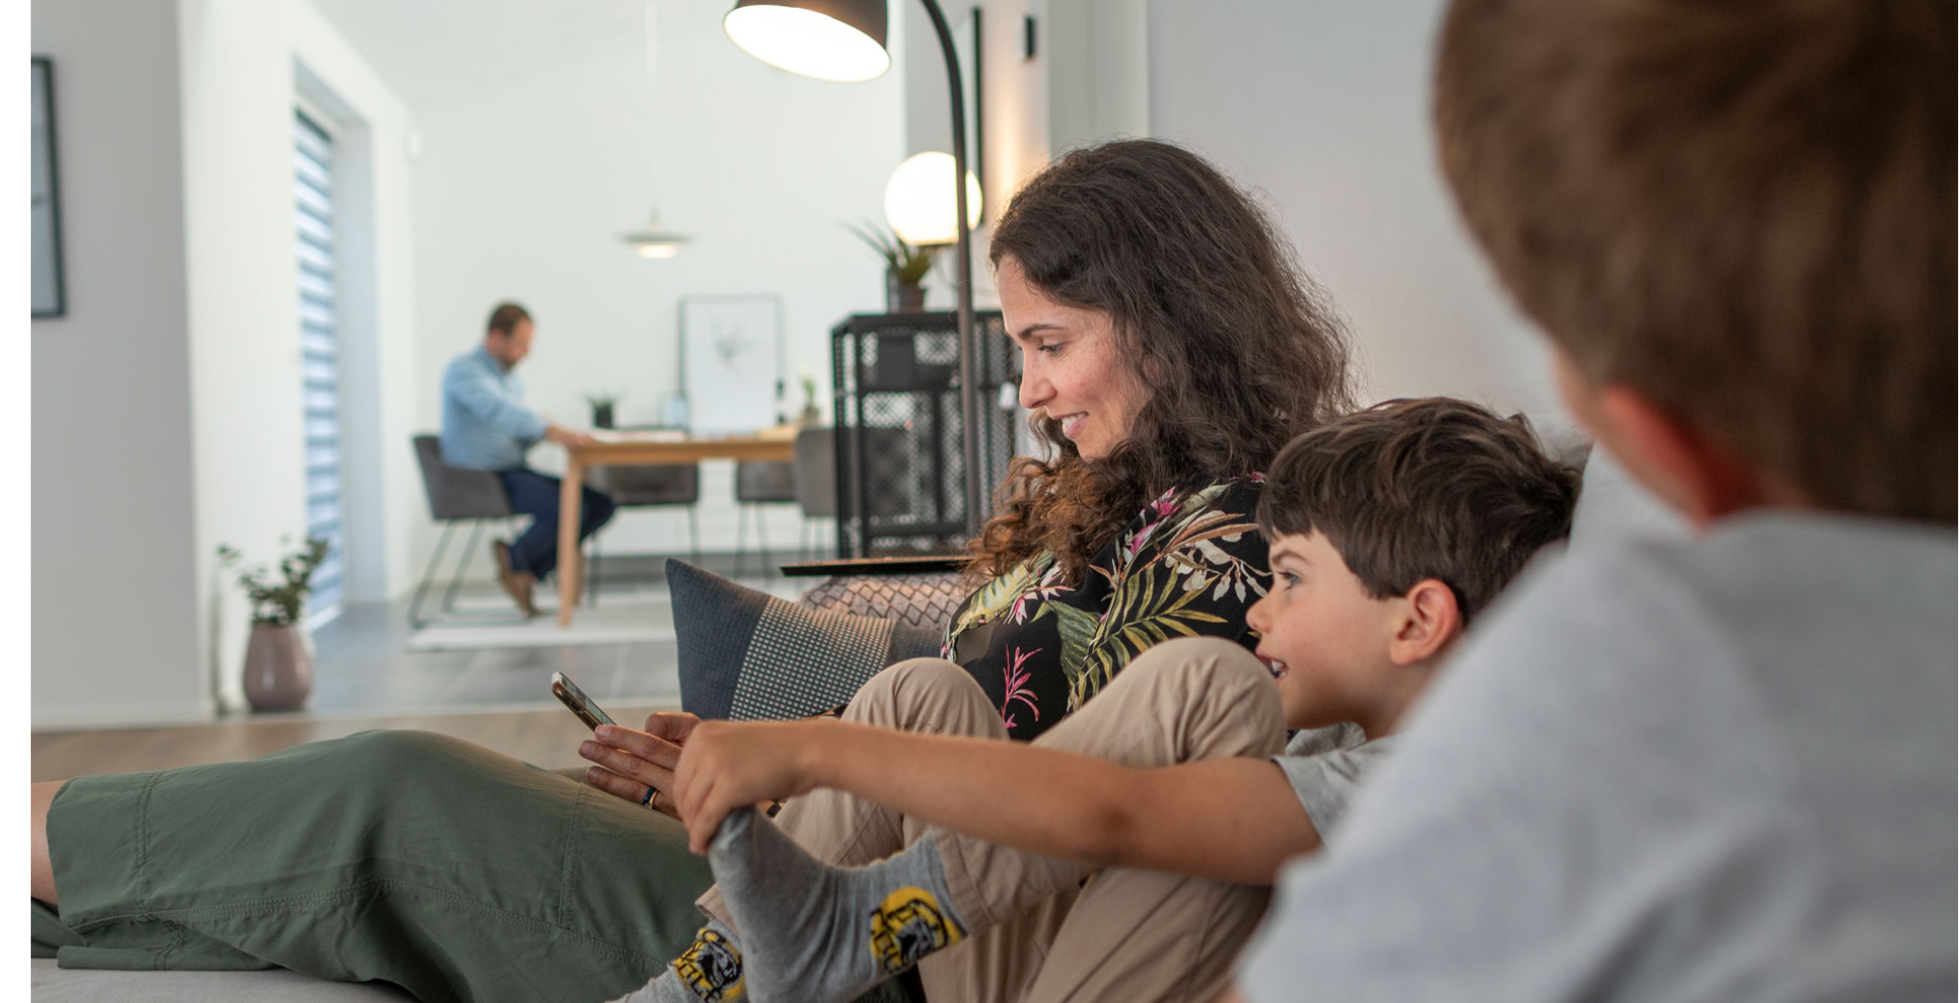
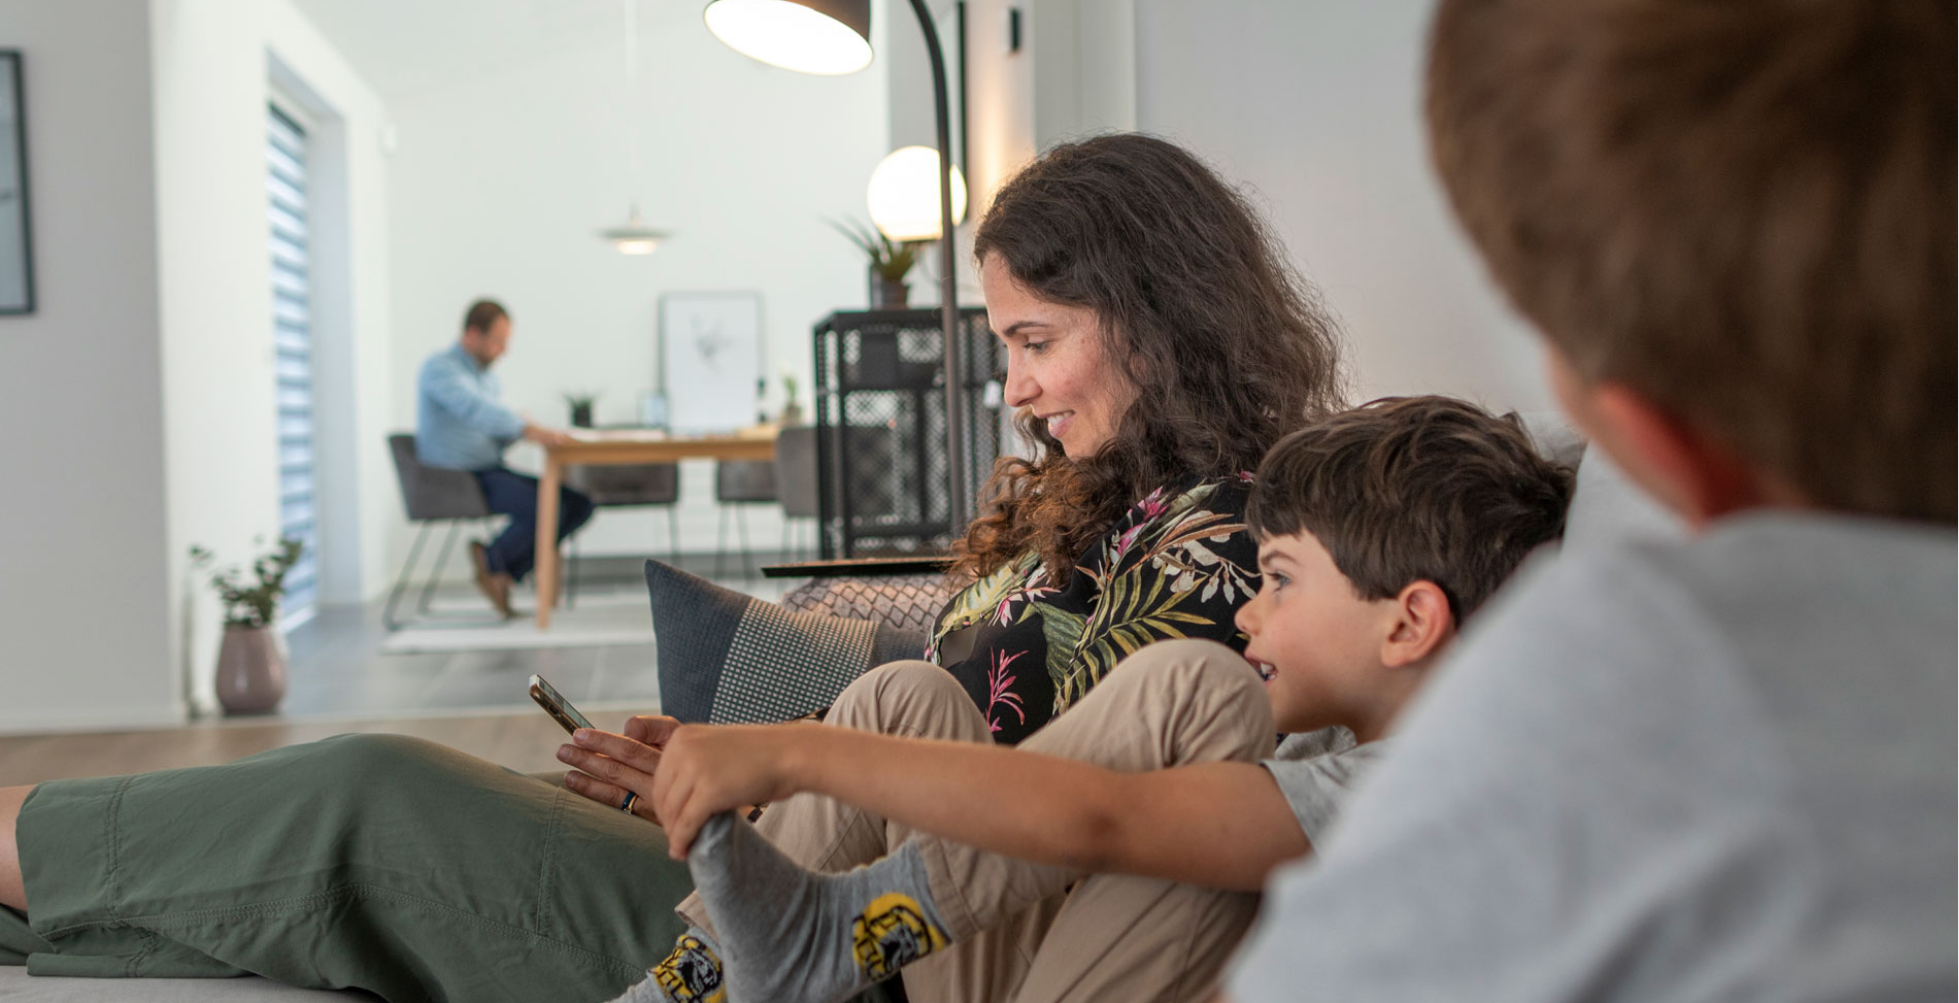
Har lagtg bannerbilledeer på alle siderne

diff --git a/kontakt.html b/kontakt.html
@@ -52,7 +52,7 @@
     </header>
     <main>
       <div class="bannerbillede">
-        <img class="bannerbilledeforside" src="images/wiser-fest.png" alt="">
+        <img class="bannerbilledeforside" src="images/kontaktbanner.png" alt="">
       </div>
       <div class="wiserintrosektion">
         <div class="section">

diff --git a/omwiser.html b/omwiser.html
@@ -52,7 +52,7 @@
     </header>
     <main>
       <div class="bannerbillede">
-        <img class="bannerbilledeforside" src="images/wiser-fest.png" alt="">
+        <img class="bannerbilledeforside" src="images/omwiserbanner.png" alt="">
       </div>
       <div class="wiserintrosektion">
         <div class="section">

diff --git a/produkt.html b/produkt.html
@@ -52,7 +52,7 @@
     </header>
     <main>
       <div class="bannerbillede">
-        <img class="bannerbilledeforside" src="images/wiser-fest.png" alt="">
+        <img class="bannerbilledeforside" src="images/produktbanner.png" alt="">
       </div>
       <div class="wiserintrosektion">
         <div class="section">
